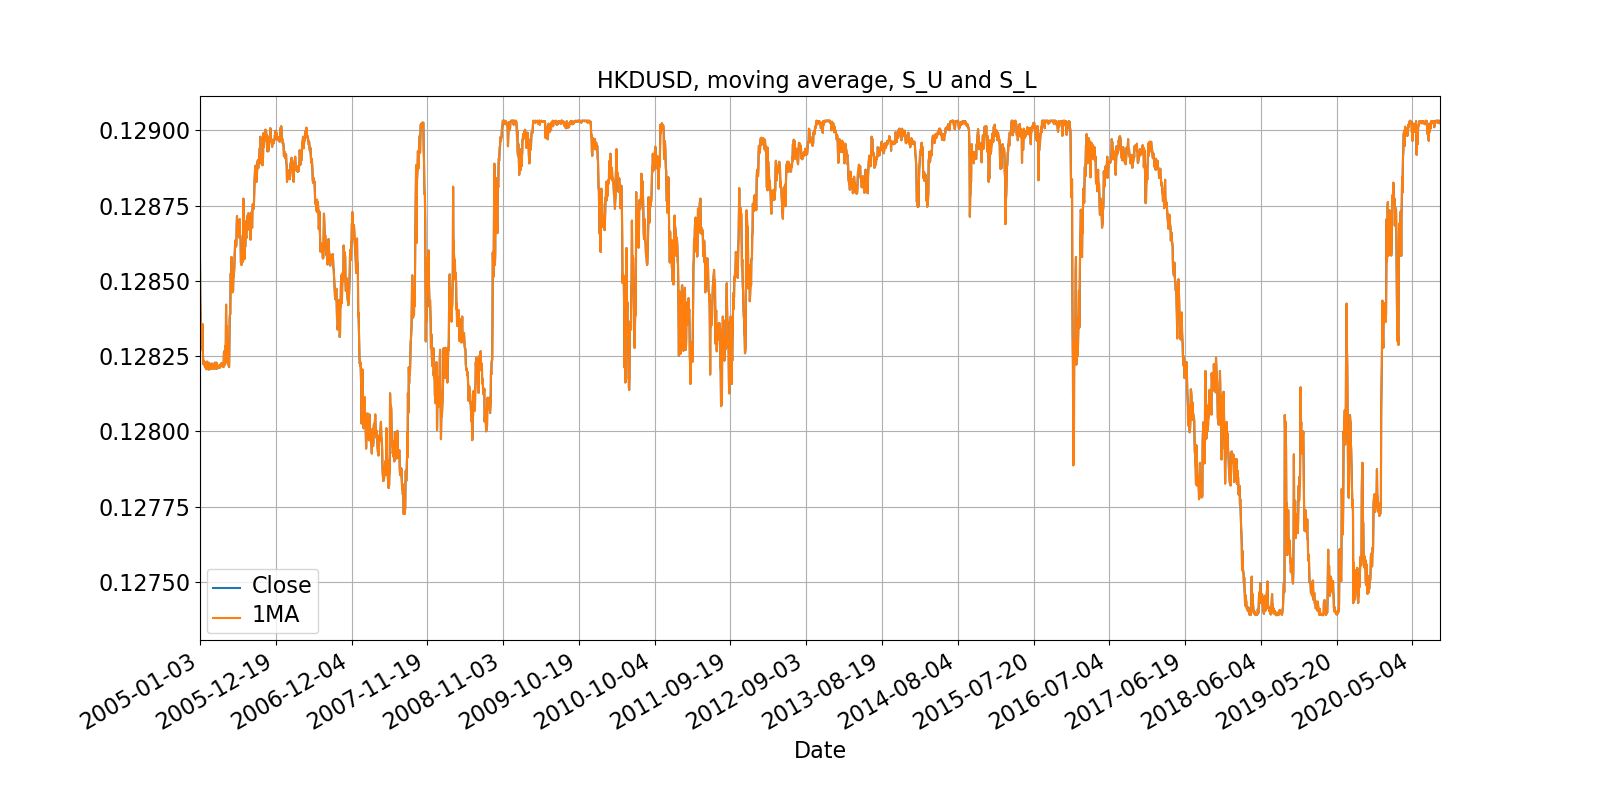
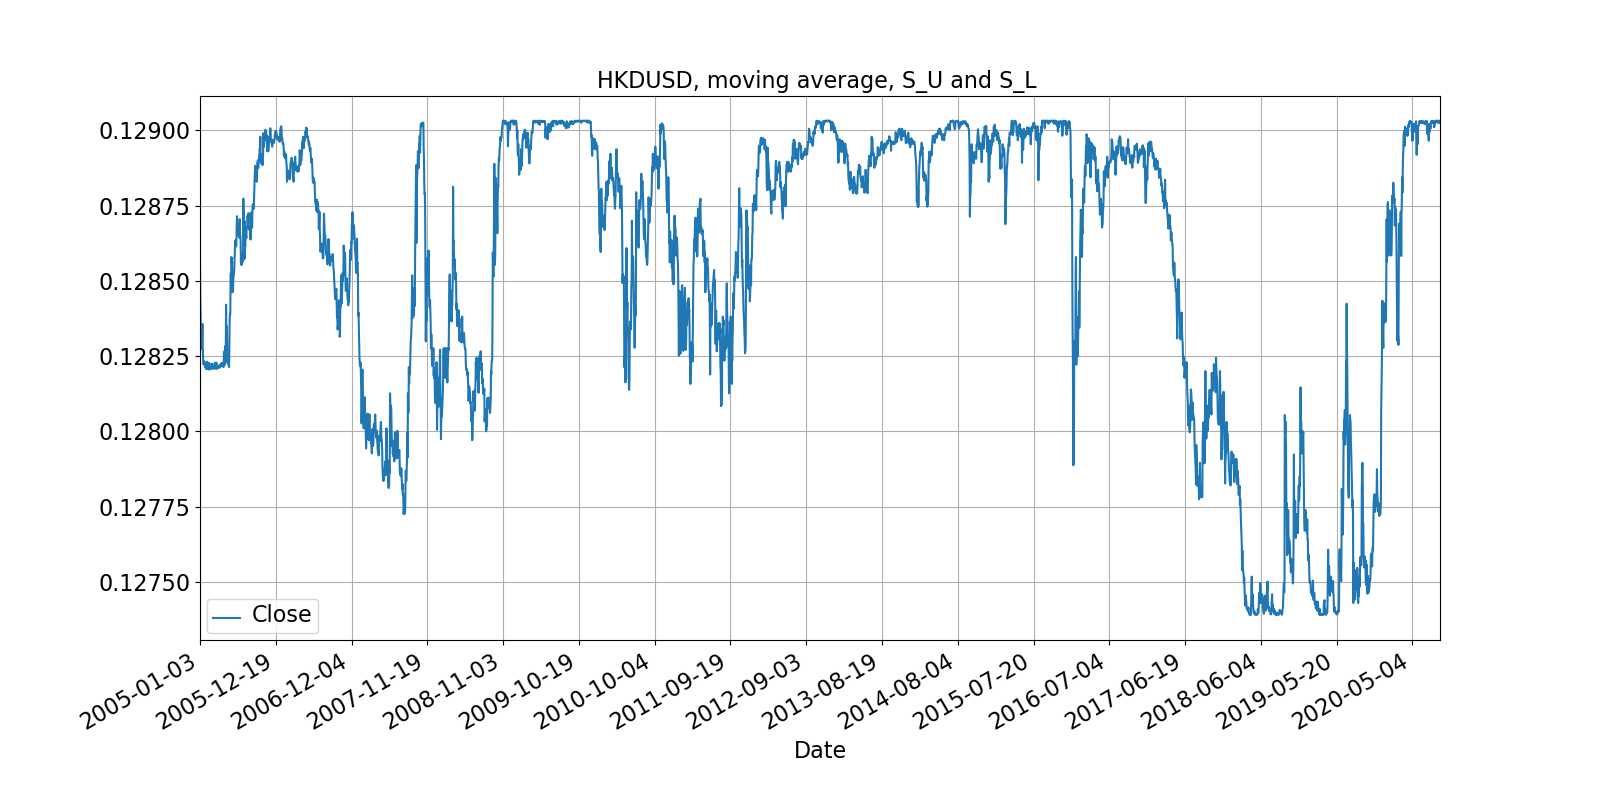
exchange rate fixed

diff --git a/step8_relabelandplot_bond.py b/step8_relabelandplot_bond.py
@@ -59,7 +59,7 @@ def plotGraphSetting(params,result,setting,itemmode):
             else:
                 data = result[[result.columns[0], "{}MA".format(MA),"S_U", "S_L"]]
         elif itemType == "exchange":
-            data = result[[result.columns[0], "{}MA".format(MA)]]
+            data = result[[result.columns[0]]]
         else:
             data = result[[result.columns[0], "{}MA".format(MA),"S_U", "S_L"]]
         ax1 = data.plot(title = title["stdtit"], grid=True, fontsize=fontsize, figsize=figsize, xticks = (np.arange(0, len(data)+1, 250.0)))
@@ -260,7 +260,11 @@ def relabelAndPlot(params):
         fig.savefig(filepath["graph"] + "{}_{}.png".format(graphName,var) )
         fig.savefig(filepath["output_graph"] + "{}_{}.png".format(graphName,var) )
     
-    setting = ["main","s","leakage","normalize"]
+    if itemType == "exchange":
+        setting = ["main","s","leakage"]
+    else:
+        setting = ["main","s","leakage","normalize"]
+    
     for var in setting:
         fig = plotGraphSetting(params,result, var,itemmode)
         fig.savefig(filepath["graph"] + "{}_{}.png".format(infographName,var) )
